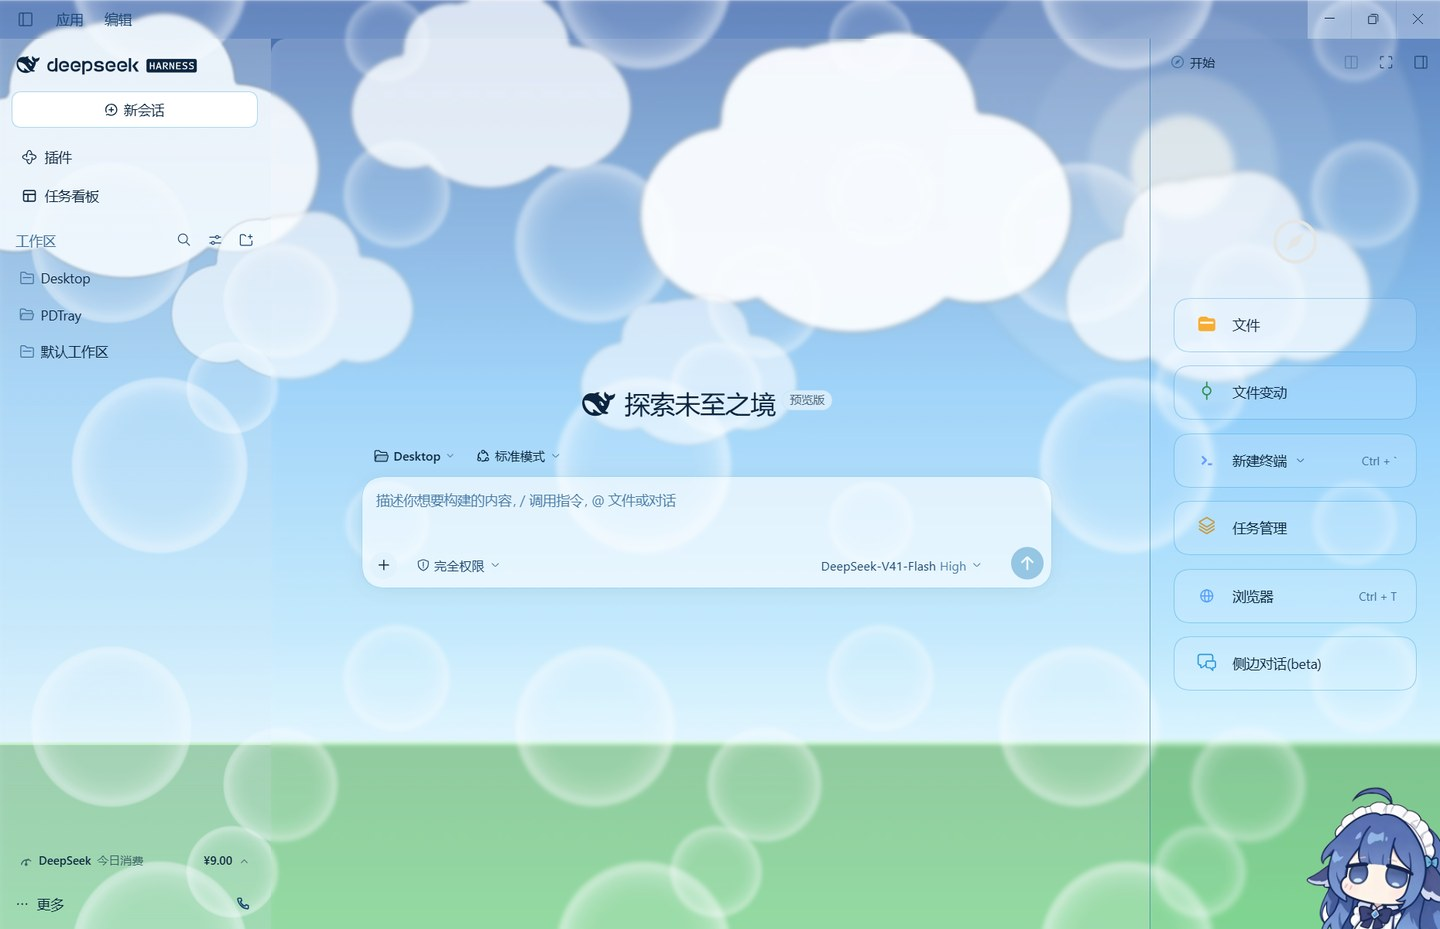
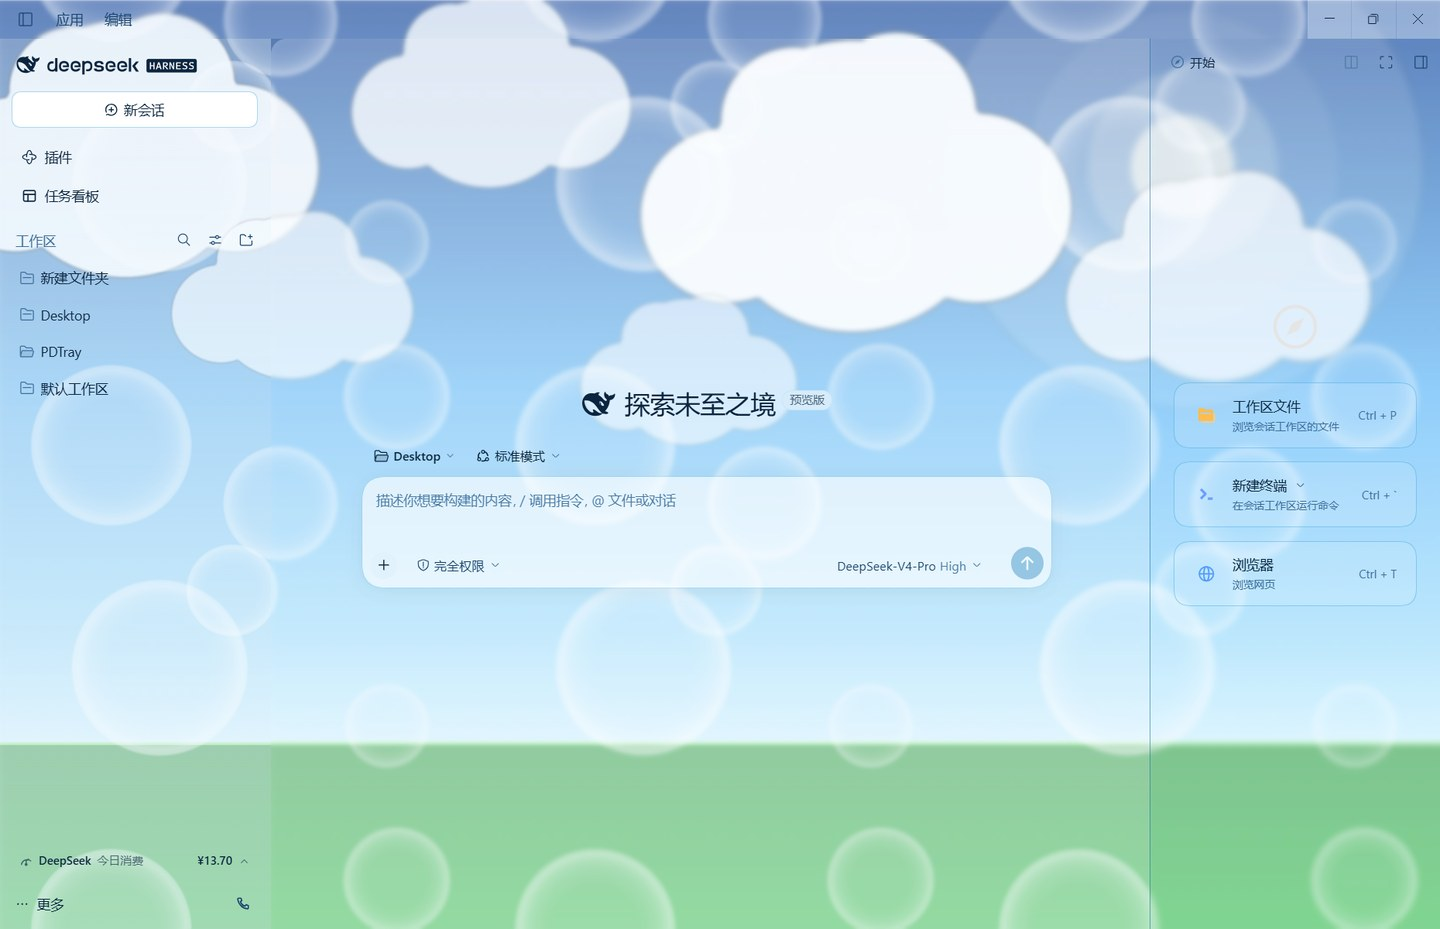
docs(skins): frutiger-aero 补原创声明，证据图与预览图重拍（去第三方桌宠）

diff --git a/skins/frutiger-aero/README.zh.md b/skins/frutiger-aero/README.zh.md
@@ -74,6 +74,13 @@
 
 气泡的径向 alpha 剖面参考 [khang-nd/bubbles](https://github.com/khang-nd/bubbles)（MIT，Windows Bubbles 屏保的复刻版）。未复制任何资产，只使用了剖面数值。壁纸与全部皮肤代码均为原创。
 
-## 许可证
+## 许可与声明
 
 MIT，见 `LICENSE`。
+
+- **素材来源**：皮肤代码与全部美术资产均为原创。背景 `assets/aero-sky.webp` 由代码程序化
+  生成（天空渐变、阳光、白云、草地），气泡为纯 CSS 径向渐变——**不含任何第三方图像，
+  也不含任何人物形象**。
+- **参考**：气泡的径向 alpha 剖面参考 [khang-nd/bubbles](https://github.com/khang-nd/bubbles)
+  （MIT），只使用剖面数值，未复制任何素材。
+- **性质**：本皮肤为个人作品，与 DSH 官方及其关联方无关，未获其背书。
